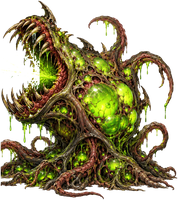
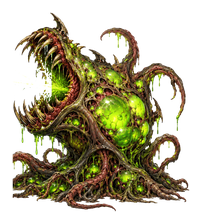
Readable characters on dark levels: coloured rims, true colours; Swordsman climbing drawings
- Heroes get a rim in their colour around the whole puppet (a CanvasGroup,
  so no seams between the parts); monsters a red rim from their material.
  Monster pictures have a clear margin for it (Enemy.ART_BORDER).
- Fix: in Godot 4 COLOR in fragment() already includes the picture, so the
  flash shader multiplied it in twice and drew every character darker than
  its art. Characters now show their real colours.
- Swordsman ladder frames (back view); climbing poses stand centred on the
  ladder. A frame can carry its own scale.

Claude-Session: https://claude.ai/code/session_01DbbAxgCR2CT7iqKnVBrHPT

diff --git a/coop-platformer/tools/sprites.py b/coop-platformer/tools/sprites.py
@@ -11,7 +11,7 @@ import json
 import os
 
 import numpy as np
-from PIL import Image, ImageDraw, ImageFilter
+from PIL import Image, ImageDraw, ImageFilter, ImageOps
 
 from bgtools import make_seamless, white_to_alpha
 
@@ -115,6 +115,11 @@ ENEMIES = {
 }
 
 
+# Clear margin around monster pictures: room for the rim the game draws around
+# them (Enemy.ART_BORDER must match).
+ENEMY_BORDER = 12
+
+
 def build_enemies():
     for name, (source, height) in ENEMIES.items():
         path = os.path.join(SRC, source)
@@ -122,7 +127,7 @@ def build_enemies():
             continue
         img, _ = crop(remove_background(Image.open(path)))
         img, _ = scaled(img, height)
-        save(img, name)
+        save(ImageOps.expand(img, ENEMY_BORDER, (0, 0, 0, 0)), name)
 
 
 # ---------------------------------------------------------------- heroes
@@ -253,8 +258,9 @@ POSE_REFERENCE = {
 # Where each pose's frames come from: (picture in art_source/heroes/poses/originals
 # without "_original.png", box or None for the whole picture). The wall poses have
 # the wall drawn on the right: the box stops just before it. A picture with two
-# figures is drawn smaller: a third item, the box of an upright figure in the same
-# picture, gives its own scale.
+# figures is drawn smaller: a third item gives that picture its own scale, either
+# the box of an upright figure in it, or the frame's height compared with the
+# standing hero.
 POSE_SOURCES = {
     "gunner_crouch": [("gunner_crouch", None)],
     "gunner_kick": [("gunner_kick", None)],
@@ -266,6 +272,8 @@ POSE_SOURCES = {
     "swordsman_slash_finisher": [("swordsman_finisher_a", None), ("swordsman_finisher_b", None)],
     "swordsman_slash_overhead": [("swordsman_slash_rising", None)],
     "swordsman_wall": [("swordsman_wall", (0, 0, 874, 1536))],
+    # Back view with a hand raised above the head.
+    "swordsman_climb": [("swordsman_climb", (0, 0, 724, 1086), 1.12), ("swordsman_climb", (724, 0, 1448, 1086), 1.12)],
 }
 # How far the wall is from the hero's middle in the wall pose (art pixels).
 WALL_GAP = 48
@@ -315,7 +323,9 @@ def build_poses():
                 if img is None:
                     continue
                 factor = hero_factor
-                if upright:
+                if upright and isinstance(upright[0], (int, float)):
+                    factor = HEROES[hero]["height"] * upright[0] / img.size[1]
+                elif upright:
                     factor = HEROES[hero]["height"] / _pose_cutout(source, upright[0]).size[1]
                 img = img.resize((max(1, round(img.size[0] * factor)), max(1, round(img.size[1] * factor))),
                                  Image.LANCZOS)
@@ -323,6 +333,9 @@ def build_poses():
                 width = alpha.shape[1]
                 if pose == "wall":
                     anchor = (width - WALL_GAP) / width
+                elif pose == "climb":
+                    # Centred on the ladder: the middle of the figure's mass.
+                    anchor = np.nonzero(alpha > 128)[1].mean() / width
                 else:
                     soles = np.nonzero(alpha[int(alpha.shape[0] * 0.86):].max(axis=0) > 128)[0]
                     anchor = (soles.min() + soles.max()) / 2.0 / width if len(soles) else 0.5

diff --git a/coop-platformer/ART_WORLD1.md b/coop-platformer/ART_WORLD1.md
@@ -80,8 +80,8 @@ white background, nothing cropped, no motion lines, no effects. Pose: ...
 Стену в позе у стены рисовать можно (справа) — её я отрезаю.
 
 Готово: стрелок — присед, пинок, стена; мечник — присед, блок, три удара серии (добивающий из двух кадров),
-стена (удар вверх пока использует рисунок восходящего удара).
-Ещё нужно: `gunner_climb_1/2`, `swordsman_climb_1/2` (без лестницы!) и, по желанию, `swordsman_slash_overhead_1`.
+стена, лестница (удар вверх пока использует рисунок восходящего удара).
+Ещё нужно: `gunner_climb_1/2` (без лестницы!) и, по желанию, `swordsman_slash_overhead_1`.
 
 ---
 
